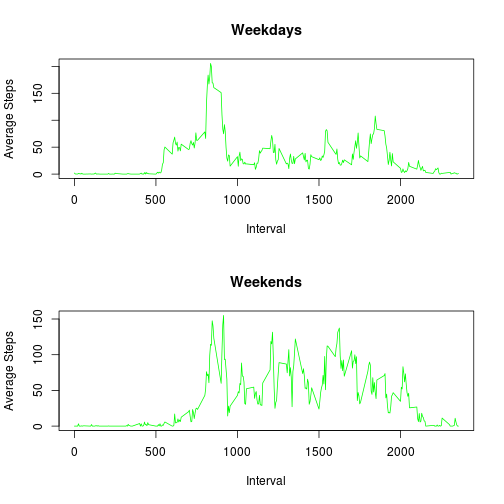
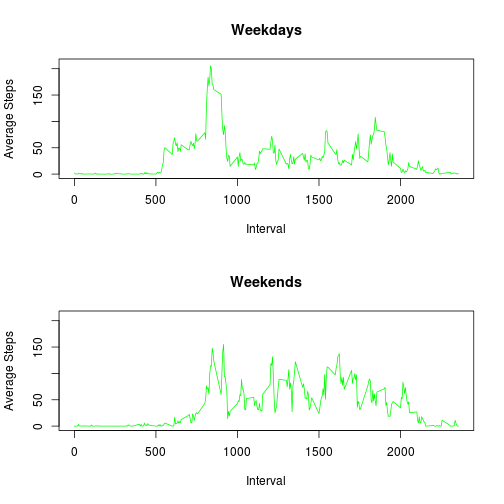
Added a scale factor to the final panel plot
The figures were somewhat misleading without identical scales between weekends and weekdays

diff --git a/PA1_template.html b/PA1_template.html
@@ -293,11 +293,11 @@ intervalmeanwd &lt;- tapply(wd$steps,wd$interval,mean,na.rm=T)
 <p>Plots:</p>
 
 <pre><code class="r">par(mfrow=c(2,1))
-plot(names(intervalmeanwd),intervalmeanwd,type=&quot;l&quot;,col=&quot;green&quot;,main= &quot;Weekdays&quot;, xlab=&quot;Interval&quot;, ylab=&quot;Average Steps&quot;)
-plot(names(intervalmeanwe),intervalmeanwe,type=&quot;l&quot;,col=&quot;green&quot;,main= &quot;Weekends&quot;, xlab=&quot;Interval&quot;, ylab=&quot;Average Steps&quot;)
+plot(names(intervalmeanwd),intervalmeanwd,type=&quot;l&quot;,col=&quot;green&quot;,main= &quot;Weekdays&quot;, xlab=&quot;Interval&quot;, ylab=&quot;Average Steps&quot;, ylim=c(0,210))
+plot(names(intervalmeanwe),intervalmeanwe,type=&quot;l&quot;,col=&quot;green&quot;,main= &quot;Weekends&quot;, xlab=&quot;Interval&quot;, ylab=&quot;Average Steps&quot;, ylim=c(0,210))
 </code></pre>
 
[2 lines of base64/hex data omitted]
 
 </body>
 

diff --git a/PA1_template.md b/PA1_template.md
@@ -113,8 +113,8 @@ Plots:
 
 ```r
 par(mfrow=c(2,1))
-plot(names(intervalmeanwd),intervalmeanwd,type="l",col="green",main= "Weekdays", xlab="Interval", ylab="Average Steps")
-plot(names(intervalmeanwe),intervalmeanwe,type="l",col="green",main= "Weekends", xlab="Interval", ylab="Average Steps")
+plot(names(intervalmeanwd),intervalmeanwd,type="l",col="green",main= "Weekdays", xlab="Interval", ylab="Average Steps", ylim=c(0,210))
+plot(names(intervalmeanwe),intervalmeanwe,type="l",col="green",main= "Weekends", xlab="Interval", ylab="Average Steps", ylim=c(0,210))
 ```
 
 ![plot of chunk weekdayVsWeekend](figure/weekdayVsWeekend.png) 
